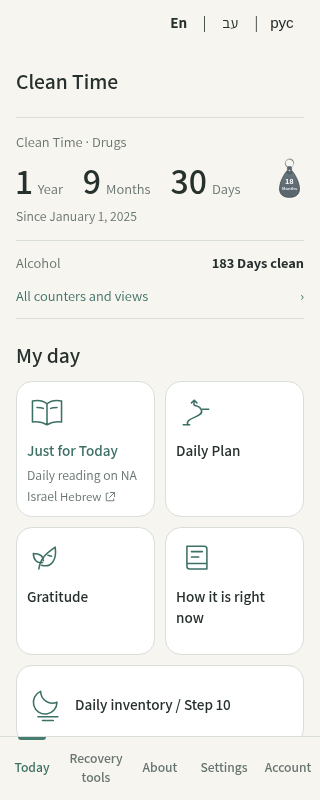
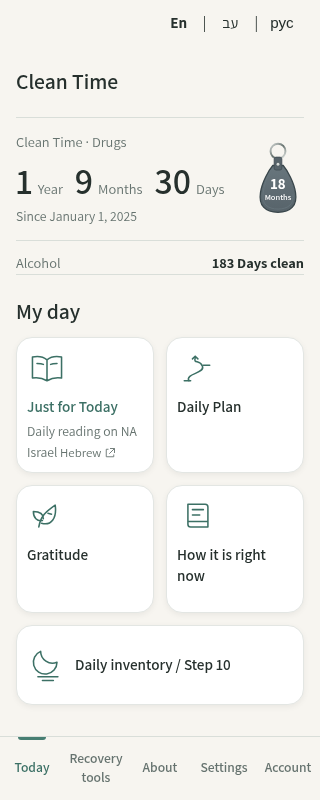
Refine Home card separation and move counter controls into Settings

diff --git a/index.html b/index.html
@@ -391,14 +391,14 @@ nav.tabs button span{max-width:100%;white-space:normal;overflow-wrap:anywhere}
 #counter .summary-count .num{font-size:2.25rem;line-height:1.1;font-weight:600;letter-spacing:normal}
 .summary-count .lbl{font-size:.9rem;margin:0}
 .summary-since{font-size:.85rem;color:var(--muted);margin:6px 0 0}
-.recovery-summary .milestone-badge{position:static;flex:0 0 29px;width:29px;height:43px;filter:none}
+.recovery-summary .milestone-badge{position:static;flex:0 0 52px;width:52px;height:73px;filter:none}
 .secondary-summary{display:flex;justify-content:space-between;gap:8px;flex-wrap:wrap;margin:12px 0 0;padding-top:10px;border-top:1px solid var(--line);font-size:.9rem;overflow-wrap:anywhere}
 .secondary-summary>span{color:var(--muted)}
 .counter-detail-link{display:flex;align-items:center;justify-content:space-between;gap:12px;width:100%;min-height:44px;padding:8px 0;color:var(--accent-ink);font-size:.9rem;border:0;background:none;text-align:start;cursor:pointer}
 .chevron::after{content:'‹'}
 :root[dir="ltr"] .chevron::after{content:'›'}
-.daily-cards{display:grid;grid-template-columns:repeat(2,minmax(0,1fr));gap:12px}
-.daily-card{flex-direction:column;gap:8px;min-height:128px;width:100%;text-align:start;text-decoration:none;cursor:pointer;overflow-wrap:anywhere;color:var(--ink)}
+.daily-cards{display:grid;grid-template-columns:repeat(2,minmax(0,1fr));gap:16px}
+.daily-card{flex-direction:column;gap:8px;min-height:128px;width:100%;text-align:start;text-decoration:none;cursor:pointer;overflow-wrap:anywhere;color:var(--ink);border-color:color-mix(in srgb,var(--line) 75%,var(--surface));box-shadow:0 2px 6px rgb(0 0 0 / .06)}
 .daily-card-title{display:block}
 .daily-card small{display:block;font-size:.85rem;font-weight:400;color:var(--muted);line-height:1.5}
 .daily-card.primary .daily-card-title{color:var(--accent-ink)}
@@ -406,7 +406,8 @@ nav.tabs button span{max-width:100%;white-space:normal;overflow-wrap:anywhere}
 .daily-card:last-child .daily-card-title{margin:0}
 .daily-card:active{background:var(--accent-soft)}
 @media(hover:hover){.daily-card:hover{border-color:var(--accent-ink);background:var(--accent-soft)}}
-@media(max-width:340px){.daily-card{padding:10px}.daily-card-title{font-size:.95rem}.daily-cards{gap:10px}}
+@media(max-width:380px){.summary-count{gap:12px}}
+@media(max-width:340px){.daily-card{padding:10px}.daily-card-title{font-size:.95rem}.daily-cards{gap:12px}}
 .external-link-icon{width:12px;height:12px;fill:none;stroke:currentColor;stroke-width:1.2;vertical-align:middle}
 #counterDetails{text-align:start;padding-bottom:20px}
 #counterDetails .count{margin:auto;max-width:100%}
@@ -513,7 +514,6 @@ nav.tabs button span{max-width:100%;white-space:normal;overflow-wrap:anywhere}
         </div>
       </div>
       <p class="secondary-summary" id="homeSecondary" hidden><span id="homeSecondaryLabel"></span><strong id="homeSecondaryDays"></strong></p>
-      <button class="counter-detail-link" data-go="counterDetails"><span data-i18n="כל המונים והתצוגות">כל המונים והתצוגות</span><span class="chevron" aria-hidden="true"></span></button>
     </div>
     <div class="today-actions">
       <h2><span data-i18n="היום שלי">היום שלי</span></h2>
@@ -529,7 +529,7 @@ nav.tabs button span{max-width:100%;white-space:normal;overflow-wrap:anywhere}
 
   <section id="counterDetails" hidden>
     <h2><span data-i18n="מונים ותצוגות">מונים ותצוגות</span></h2>
-    <button class="btn ghost" data-go="counter"><span data-i18n="חזרה להיום">חזרה להיום</span></button>
+    <button class="btn ghost" data-go="settings"><span data-i18n="חזרה להגדרות">חזרה להגדרות</span></button>
     <div class="home-display" id="homeDisplay" hidden>
       <label class="second-toggle"><input type="checkbox" id="showHomeTimers"><span data-i18n="הצגת מסלולים נוספים בבית">הצגת מסלולים נוספים בבית</span></label>
       <div id="homeDisplayOptions" hidden>
@@ -664,6 +664,10 @@ nav.tabs button span{max-width:100%;white-space:normal;overflow-wrap:anywhere}
     </label>
     <div class="field"><span><span data-i18n="צבע">צבע</span></span><div class="swatches" id="swatches" role="radiogroup" aria-label="צבע" data-i18n-aria-label="צבע"></div></div>
     <button class="btn" id="saveSettings" style="width:100%;margin-top:8px"><span data-i18n="שמירת הגדרות החלמה">שמירת הגדרות החלמה</span></button>
+    <div class="settings-foot" id="counterViewSettings">
+      <h3><span data-i18n="מונים ותצוגות">מונים ותצוגות</span></h3>
+      <button class="counter-detail-link" data-go="counterDetails"><span data-i18n="כל המונים והתצוגות">כל המונים והתצוגות</span><span class="chevron" aria-hidden="true"></span></button>
+    </div>
     <div class="settings-foot" id="timerSettings">
       <h3><span data-i18n="מסלולי ההחלמה שלי">מסלולי ההחלמה שלי</span></h3>
       <p class="note"><span data-i18n="התאריך למעלה שייך למסלול הראשי. היומן וכל הכלים היומיים משותפים לכל המסלולים.">התאריך למעלה שייך למסלול הראשי. היומן וכל הכלים היומיים משותפים לכל המסלולים.</span></p>
@@ -840,7 +844,7 @@ nav.tabs button span{max-width:100%;white-space:normal;overflow-wrap:anywhere}
 <script src="assets/recovery-timers.js"></script>
 <script>
 (function(){
-const APP_VERSION='2026.10.31.2';
+const APP_VERSION='2026.10.31.3';
 const KEY='cleantime-he-v1';
 const translateUI=CleanTimeI18n.t;
 const CNAMES={teal:'טורקיז',sky:'כחול',indigo:'אינדיגו',plum:'שזיף',olive:'זית',rose:'ורד'};
@@ -970,7 +974,7 @@ function show(tab,record=true){
   $('aboutBack').hidden=tab!=='about'||!entering;
   const active=tab==='about'?'about':['counter','counterDetails','onboarding','settings','auth','account'].includes(tab)?'counter':'tools';
   document.querySelectorAll('nav.tabs button').forEach(b=>{
-    if(b.id==='openSettings'?tab==='settings':b.id==='openAccount'?['account','auth'].includes(tab):b.dataset.tab===active&&!['settings','account','auth'].includes(tab))b.setAttribute('aria-current','page');else b.removeAttribute('aria-current');
+    if(b.id==='openSettings'?['settings','counterDetails'].includes(tab):b.id==='openAccount'?['account','auth'].includes(tab):b.dataset.tab===active&&!['settings','counterDetails','account','auth'].includes(tab))b.setAttribute('aria-current','page');else b.removeAttribute('aria-current');
   });
   if(tab==='settings')fillSettings();else applyColor();
   if(tab==='account')renderSync();
@@ -1502,6 +1506,7 @@ function persistTimers(next){
  renderTimerSettings();render();fillSettings();return true;
 }
 function renderTimerSettings(){
+ $('counterViewSettings').hidden=!S.date;
  $('timerSettings').hidden=!S.date;$('timerList').replaceChildren();
  for(const timer of S.timers||[]){
   const li=document.createElement('li'),content=document.createElement('div'),title=document.createElement('strong'),info=document.createElement('p'),actions=document.createElement('div');

diff --git a/tests/guided-home-qa.js b/tests/guided-home-qa.js
@@ -17,10 +17,14 @@ async(page)=>{
   await page.keyboard.press('Tab');
   check(await page.locator('#counter [data-go='+destination+']').evaluate(e=>e===document.activeElement&&getComputedStyle(e).outlineStyle!=='none'),'Keyboard order and visible focus: '+destination);
  }
+ check(await page.locator('#counter [data-go=counterDetails]').count()===0,'Counter configuration entry is absent from Home');
  const homeLabel=await page.locator('#homePrimaryLabel').textContent();
- await page.locator('#counter [data-go=counterDetails]').focus();await page.keyboard.press('Enter');
+ await page.locator('#openSettings').click();await page.locator('#settings [data-go=counterDetails]').focus();await page.keyboard.press('Enter');
  check(await page.locator('#counterDetails').isVisible()&&await page.locator('#counterDetails h2').evaluate(e=>e===document.activeElement),'Keyboard opens details and focuses its heading');
- check(await page.locator('[data-tab=counter]').getAttribute('aria-current')==='page','Details remains part of Today navigation');
+ check(await page.locator('#openSettings').getAttribute('aria-current')==='page','Details remains part of Settings navigation');
+ await page.locator('#counterDetails .btn.ghost').focus();await page.keyboard.press('Enter');
+ check(await page.locator('#settings').isVisible()&&await page.locator('#setTitle').evaluate(e=>e===document.activeElement),'Keyboard Back to Settings restores the Settings heading');
+ await page.goBack();
  const beforeModes=await page.evaluate(key=>JSON.parse(localStorage.getItem(key)),key);
  const initialMode=beforeModes.mode||0;
  for(let mode=0;mode<3;mode++){
@@ -32,13 +36,13 @@ async(page)=>{
  check(await page.locator('#homeTimerCards article').count()===3,'All paths remain available even when secondary Home summary is hidden');
  await page.locator('[data-display=single]').click();await page.locator('#homeTimerPick').selectOption('third');
  check((await page.locator('#fromChip').textContent()).includes('עישון'),'Single view can inspect a non-primary recovery path');
- await page.locator('#counterDetails [data-go=counter]').click();
+ await page.locator('[data-tab=counter]').click();
  check(await page.locator('#homePrimaryLabel').textContent()===homeLabel&&await page.locator('#homeSecondary').isHidden(),'Detail selection never substitutes the primary Home counter; visibility choice applies');
  await page.goBack();check(await page.locator('#counterDetails').isVisible(),'Browser Back restores counter details');
  await page.goForward();check(await page.locator('#counter').isVisible(),'Browser Forward restores Home');
  await page.reload();check(await page.locator('#homeSecondary').isHidden(),'Explicit secondary visibility preference survives reload');
- await page.locator('#counter [data-go=counterDetails]').click();await page.locator('#showHomeTimers').check();await page.locator('[data-display=cards]').click();
- await page.locator('#counterDetails [data-go=counter]').click();
+ await page.locator('#openSettings').click();await page.locator('#settings [data-go=counterDetails]').click();await page.locator('#showHomeTimers').check();await page.locator('[data-display=cards]').click();
+ await page.locator('[data-tab=counter]').click();
  check(await page.locator('#homeSecondary').isVisible()&&await page.locator('#homePrimaryLabel').textContent()===homeLabel,'Equal-card detail preference keeps compact primary/secondary Home');
  check(await page.evaluate(({key,saved})=>{
   const current=JSON.parse(localStorage.getItem(key)),before=JSON.parse(saved);delete current.mode;delete before.mode;
@@ -59,14 +63,18 @@ async(page)=>{
    }),'Two by two cards in reading order followed immediately by full-width Step 10 '+language+' '+width+' '+colorScheme);
    check(await page.evaluate(()=>{
     const card=document.querySelector('.daily-card'),welcome=document.querySelector('.welcome-feature-list li'),a=getComputedStyle(card),b=getComputedStyle(welcome);
-    return ['backgroundColor','borderColor','borderWidth','borderRadius'].every(k=>a[k]===b[k])&&getComputedStyle(card.querySelector('.page-art')).color===getComputedStyle(welcome.querySelector('.page-art')).color;
-   }),'Home cards share Welcome surface, border, radius and icon treatment '+language+' '+width+' '+colorScheme);
-   await page.locator('#counter [data-go=counterDetails]').click();
+    return ['backgroundColor','borderWidth','borderRadius'].every(k=>a[k]===b[k])&&getComputedStyle(card.querySelector('.page-art')).color===getComputedStyle(welcome.querySelector('.page-art')).color;
+   }),'Home cards retain Welcome surface, corner and icon treatment '+language+' '+width+' '+colorScheme);
+   check(await page.evaluate(()=>{
+    const cards=[...document.querySelectorAll('.daily-card')].map(e=>getComputedStyle(e)),gap=parseFloat(getComputedStyle(document.querySelector('.daily-cards')).rowGap),badge=document.getElementById('milestone').getBoundingClientRect();
+    return gap===(innerWidth<=340?12:16)&&cards.every(c=>c.borderColor===cards[0].borderColor&&c.boxShadow===cards[0].boxShadow&&c.boxShadow!=='none')&&badge.width>=50&&badge.height>=70;
+   }),'Consistent soft outlines and elevation, roomier gaps and readable badge '+language+' '+width+' '+colorScheme);
+   await page.locator('#openSettings').click();await page.locator('#settings [data-go=counterDetails]').click();
    for(const mode of ['cards','compact','single']){
     await page.locator('[data-display='+mode+']').click();
     check(await page.evaluate(()=>document.documentElement.scrollWidth<=innerWidth),'Details fit '+mode+' '+language+' '+width+' '+colorScheme);
    }
-   await page.locator('#counterDetails [data-go=counter]').click();
+   await page.locator('[data-tab=counter]').click();
   }
  }
  await page.setViewportSize({width:360,height:800});

diff --git a/tests/timers-qa.js b/tests/timers-qa.js
@@ -27,7 +27,7 @@ async(page)=>{
  check(await page.locator('#counter').isVisible()&&!(await read()).timers,'Existing guest opens without rewriting untouched legacy bytes');
  await page.locator('#openSettings').click();await page.locator('#addTimer').click();await page.locator('#tCategory').selectOption('alcohol');await page.locator('#tLabel').fill('סינתטי נוסף');await page.locator('#tDate').fill('2025-01-01');await page.locator('#timerForm button[type=submit]').click();
  let state=await read();check(state.timers.length===2&&state.date===fixture.date,'Adding a timer preserves primary date');
- const added=state.timers[1].id;await page.reload();await page.locator('#counter [data-go=counterDetails]').click();await page.locator('#showHomeTimers').check();await page.locator('[data-display=compact]').click();check((await page.locator('#homeTimerCards').innerText()).includes('סינתטי נוסף'),'Secondary counter survives reload and remains available in details');
+ const added=state.timers[1].id;await page.reload();await page.locator('#openSettings').click();await page.locator('#settings [data-go=counterDetails]').click();await page.locator('#showHomeTimers').check();await page.locator('[data-display=compact]').click();check((await page.locator('#homeTimerCards').innerText()).includes('סינתטי נוסף'),'Secondary counter survives reload and remains available in details');
  await page.locator('#openSettings').click();let row=page.locator('#timerList li').filter({hasText:'סינתטי נוסף'});await row.getByRole('button',{name:'עריכה',exact:true}).click();await page.locator('#tDate').fill('2025-02-01');await page.locator('#timerForm button[type=submit]').click();await page.locator('#askB').getByRole('button',{name:'עדכון התאריך',exact:true}).click();
  state=await read();check(state.timers[1].date==='2025-02-01'&&state.timers[0].date===fixture.date,'Editing/reset affects only selected timer');
  await row.getByRole('button',{name:'הגדרה כראשי',exact:true}).click();state=await read();check(state.primaryTimerId===added&&state.date==='2025-02-01'&&state.from==='סינתטי נוסף','Primary switch updates compatibility scalars');

diff --git a/tests/milestone-badges-qa.js b/tests/milestone-badges-qa.js
@@ -31,7 +31,7 @@ async(page)=>{
   check(await page.evaluate(()=>{
    const badge=document.getElementById('milestone').getBoundingClientRect(),app=document.querySelector('.app').getBoundingClientRect(),header=document.querySelector('header').getBoundingClientRect(),language=document.getElementById('languageSelector').getBoundingClientRect(),counter=document.getElementById('homePrimaryCount').getBoundingClientRect(),range=document.createRange();range.selectNodeContents(document.getElementById('greet'));
    const overlaps=r=>badge.left<r.right&&badge.right>r.left&&badge.top<r.bottom&&badge.bottom>r.top;
-   return badge.width<=30&&badge.height<=44&&badge.left>=app.left&&badge.right<=app.right&&badge.top>=header.bottom&&!overlaps(language)&&!overlaps(counter)&&![...range.getClientRects()].some(overlaps)&&document.documentElement.scrollWidth<=innerWidth;
+   return badge.width>=50&&badge.width<=54&&badge.height>=70&&badge.height<=76&&badge.left>=app.left&&badge.right<=app.right&&badge.top>=header.bottom&&!overlaps(language)&&!overlaps(counter)&&![...range.getClientRects()].some(overlaps)&&document.documentElement.scrollWidth<=innerWidth;
   }),'Small summary badge without overlap/overflow '+width+' '+colorScheme);
  }
  await page.evaluate(key=>{const s=JSON.parse(localStorage.getItem(key));s.name='שםבדיקהארוךמאודלבדיקתפריסהבטלפוןללאחשיפתפרטים';localStorage.setItem(key,JSON.stringify(s));},key);await page.setViewportSize({width:320,height:800});await page.reload();check(await page.evaluate(()=>document.documentElement.scrollWidth<=innerWidth),'Long synthetic greeting fits beside badge');

diff --git a/tests/review-feedback-qa.js b/tests/review-feedback-qa.js
@@ -24,7 +24,7 @@ async(page)=>{
  const saved=await page.evaluate(key=>localStorage.getItem(key),key),state=JSON.parse(saved);
  check(state.timers.length===2&&state.timers[0].date==='2024-01-01'&&state.timers[1].date==='2025-01-01','Onboarding saves two independent dates');
  check(await page.locator('#showHomeTimers').isChecked()&&await page.locator('#homeTimerCards article').count()===1,'Opt-in starts with primary and compact secondary');
- await page.locator('#counter [data-go=counterDetails]').click();
+ await page.locator('#openSettings').click();await page.locator('#settings [data-go=counterDetails]').click();
  for(const mode of ['single','cards','compact']){
   await page.locator('[data-display='+mode+']').click();
   check(await page.locator('[data-display='+mode+']').getAttribute('aria-pressed')==='true','Display choice announced '+mode);

diff --git a/assets/messages.js b/assets/messages.js
@@ -2,6 +2,7 @@
 window.CleanTimeMessages={
   "he": {},
   "en": {
+    "חזרה להגדרות": "Back to Settings",
     "כל המונים והתצוגות": "All counters and views",
     "מונים ותצוגות": "Counters and views",
     "חזרה להיום": "Back to Today",
@@ -373,6 +374,7 @@ window.CleanTimeMessages={
     "שינוי שפה ינקה פרטים שטרם נשמרו בטופס הזה. להמשיך?": "Changing language will clear unsaved entries in this form. Continue?"
   },
   "ru": {
+    "חזרה להגדרות": "Назад к настройкам",
     "כל המונים והתצוגות": "Все счётчики и виды",
     "מונים ותצוגות": "Счётчики и виды",
     "חזרה להיום": "Назад к сегодняшнему дню",

diff --git a/service-worker.js b/service-worker.js
@@ -1,5 +1,5 @@
 // Only this version's static shell is cached. Recovery/Auth responses never enter CacheStorage.
-const VERSION='2026.10.31.2';
+const VERSION='2026.10.31.3';
 const PREFIX='clean-time-shell-v1-',CACHE=PREFIX+VERSION;
 const SHELL=['/','/manifest.webmanifest','/icon-192.png','/icon-512.png','/icon-maskable-512.png','/apple-touch-icon.png','/assets/backend-config.js','/assets/sync-crypto.js','/assets/messages.js','/assets/i18n.js','/assets/appearance.js','/assets/analytics.js','/assets/recovery-dates.js','/assets/recovery-timers.js','/assets/fonts/Assistant-Variable.ttf','/assets/gong.wav'];
 self.addEventListener('install',event=>event.waitUntil((async()=>{

diff --git a/docs/HOME-UX.md b/docs/HOME-UX.md
@@ -6,7 +6,7 @@ Home shows a compact recovery summary followed by four daily cards in a 2×2 gri
 
 The DOM, keyboard and reading order is fixed: רק להיום, תכנון יומי, הכרת תודה, ככה זה עכשיו, חשבון נפש יומי / צעד 10. In Hebrew RTL, reading/plan occupy the top right/left, and gratitude/journal the bottom right/left. English and Russian follow the same sequence in LTR. Step 10 spans both columns immediately beneath the four cards, using the same surface, border and corner treatment.
 
-Home and Welcome share the card surface, subtle border, 16px corners, title typography, accent icon styling and 12px spacing rules. Home reuses the established reading, plan, gratitude, journal and inventory illustrations. The first action has an accent title and a short external-reading description; its safe external URL and separate-window behavior are preserved. Native buttons and links retain the shared visible focus outline; Home adds restrained hover/pressed states. Welcome's existing content and responsive composition are unchanged.
+Home retains Welcome’s card surface, 16px corners, title typography and accent icon styling. All five Home cards now use the same soft neutral outline and gentle shadow (0 2px 6px at 6% black), with 16px gaps between rows, columns and the Step 10 card; 320px layouts use 12px gaps to keep useful card widths. Home reuses the established reading, plan, gratitude, journal and inventory illustrations. The first action has an accent title and a short external-reading description; its safe external URL and separate-window behavior are preserved. Native buttons and links retain the shared visible focus outline; Home adds restrained hover/pressed states. Welcome's existing content and responsive composition are unchanged.
 
 The grid stays two columns at 320/360/390px and desktop widths. At 320px, 10px padding and 0.95rem titles keep long Russian labels legible without clipping. Card height can grow with text. At enlarged font sizes or with status notices, the page scrolls normally; the footer does not prevent reaching the fifth card. No completion tracking, forced sequence, wizard or score is introduced.
 
@@ -14,9 +14,9 @@ The grid stays two columns at 320/360/390px and desktop widths. At 320px, 10px p
 
 - The compact primary summary always describes the primary path, independent of the counter selected in details. Its start date and calendar duration stay visible.
 - A secondary path is a small row; every saved path remains in details. Stored device visibility preferences are respected. New defaults show a compact secondary path; the existing optional second-path setup choice can still be unchecked.
-- “כל המונים והתצוגות” opens the optional counter view, keeping Today active in the footer. All three numerical formats, the single/compact/equal-card presentations, path selector and Home visibility checkbox remain accessible. Browser Back/Forward and “חזרה להיום” work.
+- Settings → “מונים ותצוגות” → “כל המונים והתצוגות” opens the optional counter view, keeping Settings active in the footer. The configuration entry is removed entirely from Home. All three numerical formats, the single/compact/equal-card presentations, path selector and Home visibility checkbox remain accessible. Browser Back/Forward and “חזרה להגדרות” work.
 - Recovery-date/path editing stays in Settings. The existing footer retains Today, Tools, About, Settings and Account. Every daily card opens its destination directly.
-- The small primary-path key-tag milestone and its Settings visibility preference remain. The existing palette, Assistant font, appearance settings, Hebrew RTL and English/Russian LTR remain.
+- The primary-path key-tag milestone is now 52×73px (about 1.8× the former 29×43px), scaling its text proportionally. It remains inside the compact summary, and its Settings visibility preference is respected. Narrow screens use a smaller gap between calendar units to keep the larger badge alongside the counter. The existing palette, Assistant font, appearance settings, Hebrew RTL and English/Russian LTR remain.
 
 No dependency, recovery-data format, schema, authentication, sync or analytics change is introduced by the card revision. Existing guest/offline tools, encrypted backup and unknown/legacy data fields are preserved. Step 10 content stays separate under [issue #16](https://github.com/onahum2023/clean-time/issues/16); no new questions ship here.
 
@@ -33,14 +33,15 @@ Real local service-worker registration is enabled. Fresh browser contexts and ve
 
 [English signed-in Home at 320px](home-ux-reference/after-en-320.png) · [Russian signed-in Home at 320px](home-ux-reference/after-ru-320.png)
 
+[Settings counter-view entry](home-ux-reference/settings-counter-entry.png) · [Counter controls reached from Settings](home-ux-reference/counter-details-from-settings.png) · [Home in dark mode](home-ux-reference/after-dark-mobile.png)
+
 The original large-counter Home references remain available: [mobile](home-ux-reference/before-mobile.png), [desktop](home-ux-reference/before-desktop.png). All documentation images are excluded from the deployment allowlist.
 
 ## Validation
 
-- **957 browser assertions across 14 suites passed.** Home acceptance (167), navigation (47), Welcome (180), i18n/encrypted journeys (64), timers (25), milestones (52), setup/display (48), local tools (82), registered upgrade (57), offline/service-worker (20), security headers (10), account (27), recovery flow (29), analytics (149).
-- Home acceptance measures actual 2×2 + 1 geometry, full-width Step 10 adjacency, RTL/LTR placement, unclipped text, shared Welcome styles, touch targets, visible focus and keyboard order. Matrix: Hebrew/English/Russian × light/dark × 320/360/390/1440px. It also checks direct navigation, counter modes, stored preferences, history/unknown-field/timestamp preservation and enlarged text.
-- Independent agent QA checked the same 24 language/width/color-scheme combinations, direct internal routes, Back, keyboard order and unchanged recovery bytes. Welcome screenshots matched the previous commit exactly in eight width/color-scheme comparisons. No actionable findings.
-- JavaScript syntax, whitespace, regenerated CSP hashes, Preview build, repository hygiene and seven publication/hygiene tests passed before publishing the revision.
+- **516 browser assertions across nine relevant suites passed:** Home acceptance (193), navigation (47), milestones (52), timers (25), setup/display (48), i18n/encrypted journeys (64), registered upgrade (57), offline/service-worker (20), security headers (10).
+- Home acceptance checks the Settings-only counter entry, active navigation and return focus, display preference/history preservation, no configuration link on Home, consistent outlines/shadows, larger badge and 2×2 + 1 geometry across Hebrew/English/Russian × light/dark × 320/360/390/1440px. Enlarged text and keyboard order remain covered.
+- Independent QA passed 18 mobile language/theme combinations and found a no-date account edge case; the counter section now stays hidden until a recovery date exists. Its synthetic reproduction was rerun successfully. Seven publication/hygiene tests, JavaScript syntax, CSP hashes, Preview build and whitespace checks passed. The earlier broad 14-suite baseline and unchanged Welcome checks are recorded in the preceding revision.
 
 Registered flows use synthetic identities and mocked encrypted traffic. The hosted Preview stays guest-only under the existing build isolation. A live registered-account UAT and owner UX approval remain release checks before merge.
 

diff --git a/README.md b/README.md
@@ -13,11 +13,11 @@ The canonical production origin is `https://clean-time.app/`; the www domain red
 
 ## What's inside
 
-**Clean time (זמן נקי).** Your clean time since the date you choose. Home shows a compact primary status and an optional secondary summary. Open “All counters and views” to switch between years, months and days, total days, or hours, minutes and seconds, and to choose the counter presentation.
+**Clean time (זמן נקי).** Your clean time since the date you choose. Home shows a compact primary status and an optional secondary summary. In Settings → Counters and views, open “All counters and views” to switch between years, months and days, total days, or hours, minutes and seconds, and to choose the counter presentation.
 
 **First visit.** Welcome introduces the app with its existing logo and Hebrew wordmark, a short purpose/origin paragraph and four non-interactive feature explanations before the entry actions; **מתחילים** opens a separate setup asking only for a recovery date and type. No name, email or phone is required. Existing configured users open Today. Native date pickers show a Hebrew confirmation with the month written out. About/privacy is available before setup.
 
-**Today (היום).** A compact recovery summary and four daily cards in a 2×2 grid followed by a full-width Step 10 card, all directly accessible in order: daily reading, Daily Plan, Gratitude, Journal and Step 10. Counter presentation controls live in the optional counter detail view. Recovery Tools, About and shared Settings/Account stay in the footer. Feedback is reached from About.
+**Today (היום).** A compact recovery summary and four daily cards in a 2×2 grid followed by a full-width Step 10 card, all directly accessible in order: daily reading, Daily Plan, Gratitude, Journal and Step 10. Counter presentation controls live in the optional counter detail view reached from Settings. Recovery Tools, About and shared Settings/Account stay in the footer. Feedback is reached from About.
 
 **Daily plan (התכנית שלי להיום).** One checklist per calendar day. Add, edit, delete and check items. Each new day starts empty; previous plans remain accessible.
 
